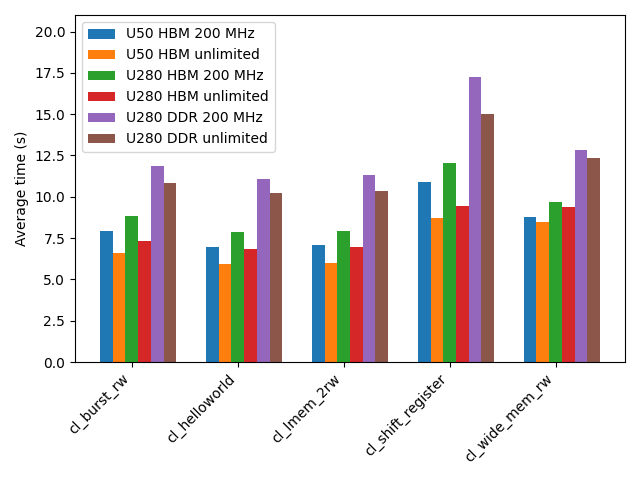
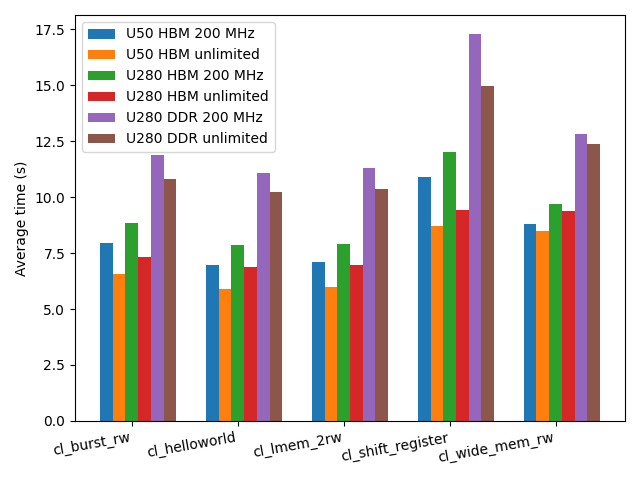
Update execution time script

diff --git a/performance/execution-time.py b/performance/execution-time.py
@@ -29,9 +29,9 @@ plt.bar(x +     bar_width, df_u280_fast["average"].values, width=bar_width, labe
 plt.bar(x + 2 * bar_width, df_u280_ddr_slow["average"].values, width=bar_width, label=f"U280 DDR {common.BASE_FREQ} MHz")
 plt.bar(x + 3 * bar_width, df_u280_ddr_fast["average"].values, width=bar_width, label="U280 DDR unlimited")
 
-plt.xticks(x, app_names, rotation=45, ha="right")
+plt.xticks(x, app_names, rotation=10, ha="right")
 plt.ylabel("Average time (s)")
-plt.ylim(top=21)
+# plt.ylim(top=20)
 # plt.yscale("log")
 plt.legend()
 plt.tight_layout()
